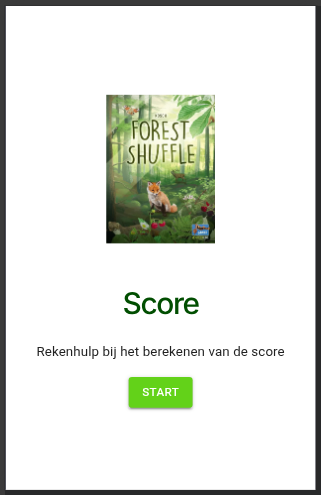
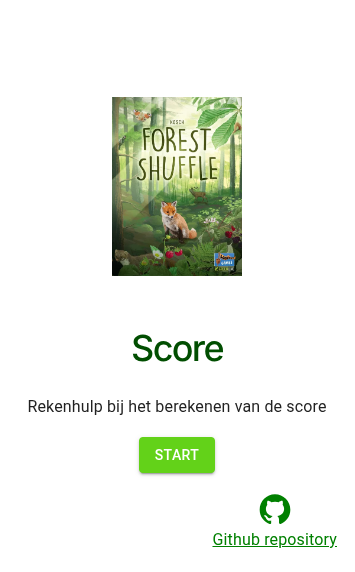
docs

diff --git a/README.md b/README.md
@@ -13,7 +13,7 @@ De volgende varianten zijn opgenomen:
 ## Eerste opmerkingen
 
 - Je voert het aantal kaarten van elk type in, en beantwoord enkele vragen over kaart-aantallen, en de app berekent de score.
-- De score kan worden bijgehouden voor het basisspel, Dartmoor, en eventueel de varianten Woodland Edge (bosrand), Alpine, en Exploration.
+- De score kan worden bijgehouden voor het basisspel, Dartmoor, Smoky mountains, en eventueel de varianten Woodland Edge (bosrand), Alpine, en Exploration.
 - Standaard begint het spel met de gebruikers Patrick en Katja. Je kunt deze aanpassen bij het begin van een nieuw spel.
 - Je input wordt bijgehouden in je browser (local storage).
 - De kaart-input wordt gewist aan het begin van elk nieuw spel. Er worden geen historische resultaten bijgehouden.
@@ -28,6 +28,8 @@ De app start op. Druk op Start.
 
 ![Home page](docs/img/home.png)
 
+De link **Github repository** brengt je naar de de ontwikkelomgeving van de applicatie, waar je fouten kunt melden.
+
 ## Gebruikers-overzicht
 
 In het gebruikersoverzicht zie je de actieve gebruikers, met het aantal kaarten dat ze hebben ingevoerd, en hun totale score. Je kunt de namen van de gebruikers aanpassen op de volgende pagina.
@@ -40,7 +42,7 @@ Ook kun je hier een nieuw spel beginnen en naar het score-overzicht.
 
 Op deze pagina stel je in met welke personen je speelt en welke varianten je gebruikt. Je hoeft deze alleen in te stellen als ze veranderen.
 
-NB: als je op de knop "Nieuw spel" drukt worden de ingevoerde waarden van het vorige spel verwijderd om een nieuw spel te kunnen beginnen. Als je dat niet wil kun je terug met de knop "Terug".
+NB: als je op de knop "Nieuw spel" drukt worden de ingevoerde waarden van het vorige spel verwijderd om een nieuw spel te kunnen beginnen. Als je dat niet wil kun je terug met de boom-knop linksboven.
 
 ![Nieuw spel](docs/img/game.png)
 
@@ -70,15 +72,19 @@ Sommige kaarten hebben een subvraag nodig om de score te kunnen berekenen. In di
 
 ![Bosmier](docs/img/subvraag.png)
 
-Andere kaarten vragen om het aantal kaarten van een boom-kleur. Nadat je het aantal kaarten van Ree hebt opgegeven, kruis je aan welke kleur de reeën hebben en daarna vul je per boom-kleur het aantal kaarten in. Er zijn enkele varianten op dit principe.
+Andere kaarten vragen om het boom-kleuren. Nadat je het aantal kaarten van Ree hebt opgegeven, kruis je aan welke boom-kleur de reeën hebben. De aantallen kaarten van elke kleur wordt later opgegeven bij "Extra".
 
 ![Ree subvraag](docs/img/ree.png)
 
-## Grot-pagina
+## Extra-pagina
 
 Op deze pagina wordt het aantal grot-kaarten ingevoerd, alsook de soort grotkaart (als er met de Exploration uitbreiding gespeeld wordt).
 
-![Grot-pagina](docs/img/grot.png)
+![Extra-pagina](docs/img/extra.png)
+
+Op deze pagina geef je ook op hoeveel kaartjes van elke boom-kleur je hebt. Alleen de relevante kleuren worden gevraagd.
+
+Als je Dartmoor speelt en een Dekenveen of Kustheide kaart hebt gespeeld, wordt hier ook gevraagd hoeveel van welke planten of vogels er bij liggen, omdat die voor een verdubbeling van die scores zorgen.
 
 ## Score overzicht
 
